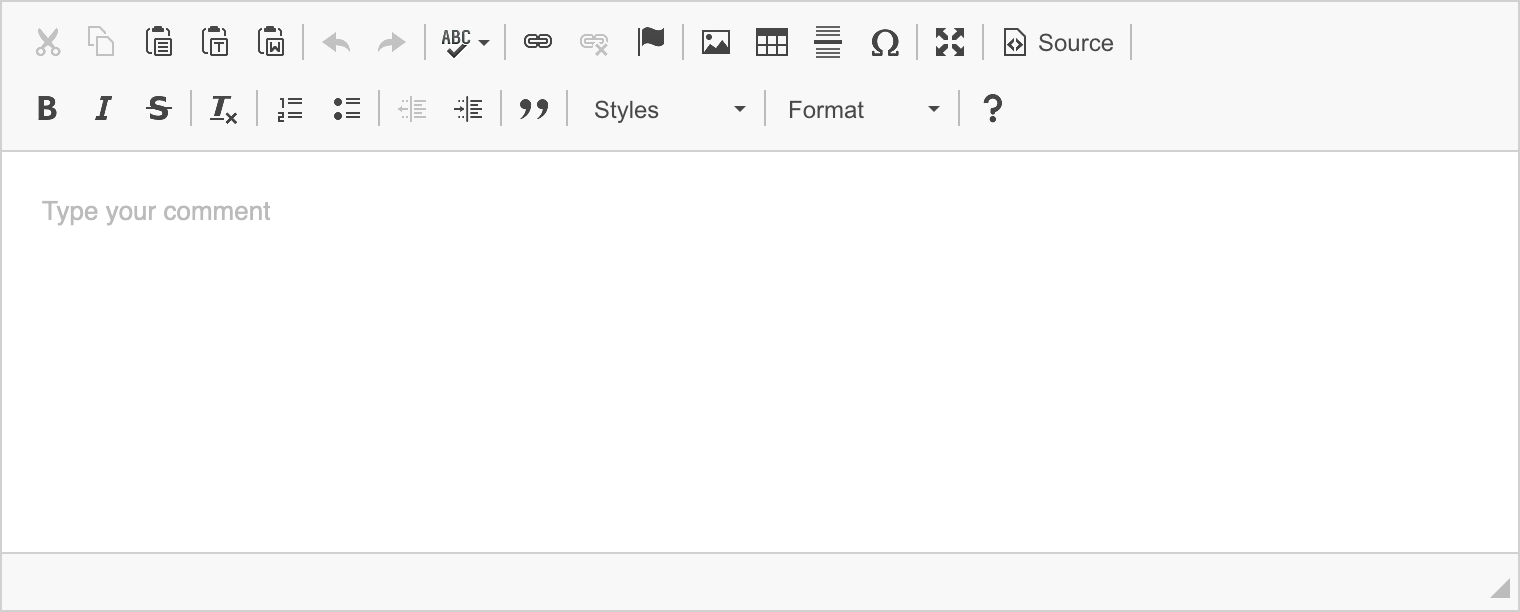
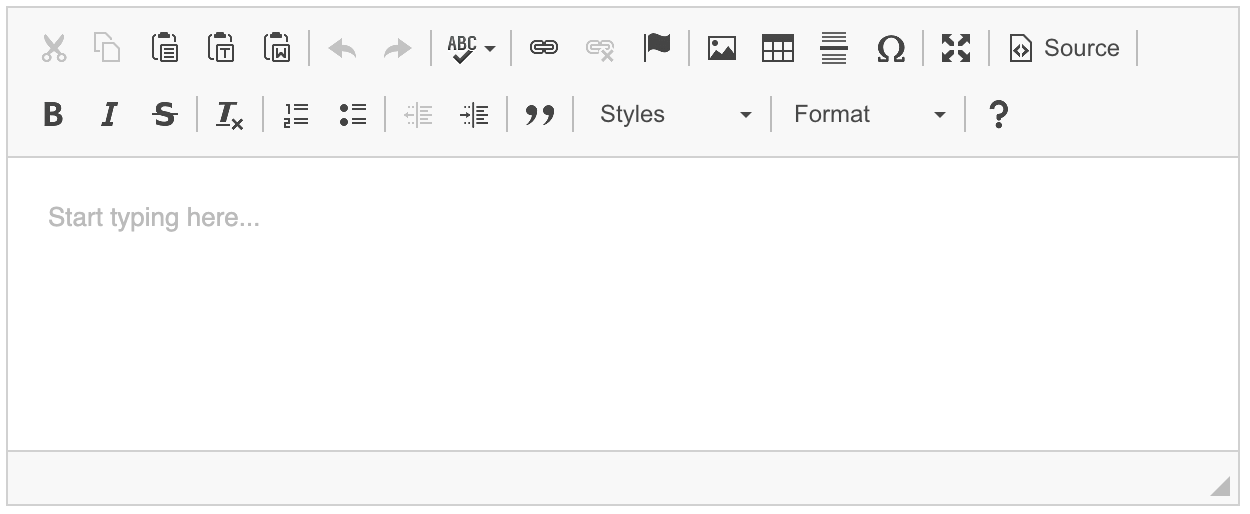
Docs: Editor Placeholder docs and sample updated.

Changed region(s): [[0.0, 0.0, 1.0, 1.0], [0.5928, 0.1556, 0.7176, 0.249], [0.7488, 0.1868, 0.8112, 0.249]]

diff --git a/docs/sdk/examples/editorplaceholder.html b/docs/sdk/examples/editorplaceholder.html
@@ -35,7 +35,7 @@ For licensing, see LICENSE.md or http://ckeditor.com/license.
 			<h1>Using Editor Placeholder <a class="documentation" href="https://ckeditor.com/docs/ckeditor4/latest/features/editorplaceholder.html">Documentation</a></h1>
 
 			<p>
-				The <a href="https://ckeditor.com/cke4/addon/editorplaceholder">Editor Placeholder</a> plugin allows you to display a placeholder text when the editor content is empty.
+				The <a href="https://ckeditor.com/cke4/addon/editorplaceholder">Editor Placeholder</a> plugin allows you to display a placeholder text when the editor content is empty. The placeholder helps users locate the editor in the application and prompts to input the content. It works similarly to the native DOM <a href="https://developer.mozilla.org/en-US/docs/Web/HTML/Element/input#The_placeholder_attribute"><code>placeholder</code> attribute</a> used by inputs.
 			</p>
 
 			<textarea cols="10" id="editor1" name="editor1" rows="10" data-sample="1" data-sample-short></textarea>

diff --git a/docs/features/editorplaceholder/README.md b/docs/features/editorplaceholder/README.md
@@ -10,16 +10,18 @@ Copyright (c) 2003-2020, CKSource - Frederico Knabben. All rights reserved.
 For licensing, see LICENSE.md.
 -->
 
-# Using Editor Placeholder
+# Using the Editor Placeholder
 
 <info-box info="">
-	This feature was introduced in CKEditor 4.15 and is provided through the <a href="https://ckeditor.com/cke4/addon/editorplaceholder">Editor Placeholder</a> plugin that is included in the Standard and Full presets available from the official CKEditor <a href="https://ckeditor.com/ckeditor-4/download/">Download</a> site. You can also {@link guide/dev/plugins/README add it to your custom build} with the <a href="https://ckeditor.com/cke4/builder">online builder</a>.
+	This feature was introduced in CKEditor 4.15 and is provided through the <a href="https://ckeditor.com/cke4/addon/editorplaceholder">Editor Placeholder</a> plugin that is included in the Standard and Full presets available from the official CKEditor 4 <a href="https://ckeditor.com/ckeditor-4/download/">Download</a> site. You can also {@link guide/dev/plugins/README add it to your custom build} with the <a href="https://ckeditor.com/cke4/builder">online builder</a>.
 </info-box>
 
-The Editor Placeholder plugin allows you to display a placeholder text when the editor content is empty.
+The Editor Placeholder plugin allows you to display a placeholder text when the editor content is empty. The placeholder helps users locate the editor in the application and prompts to input the content. It works similarly to the native DOM [`placeholder` attribute](https://developer.mozilla.org/en-US/docs/Web/HTML/Element/input#The_placeholder_attribute) used by inputs.
 
-{@img assets/img/editorplaceholder_01.png}
+{@img assets/img/editorplaceholder_01.png 625 Editor placeholder in CKEditor 4}
+
+The placeholder text is configurable and can be adjusted by using the {@linkapi CKEDITOR.config.editorplaceholder `config.editorplaceholder`} configuration option.
 
 ## Editor Placeholder Demo
 
-See the {@linksdk editorplaceholder working "Editor Placeholder" sample}.
+See the {@linksdk editorplaceholder working "Editor Placeholder" sample} that showcases the editor placeholder.
